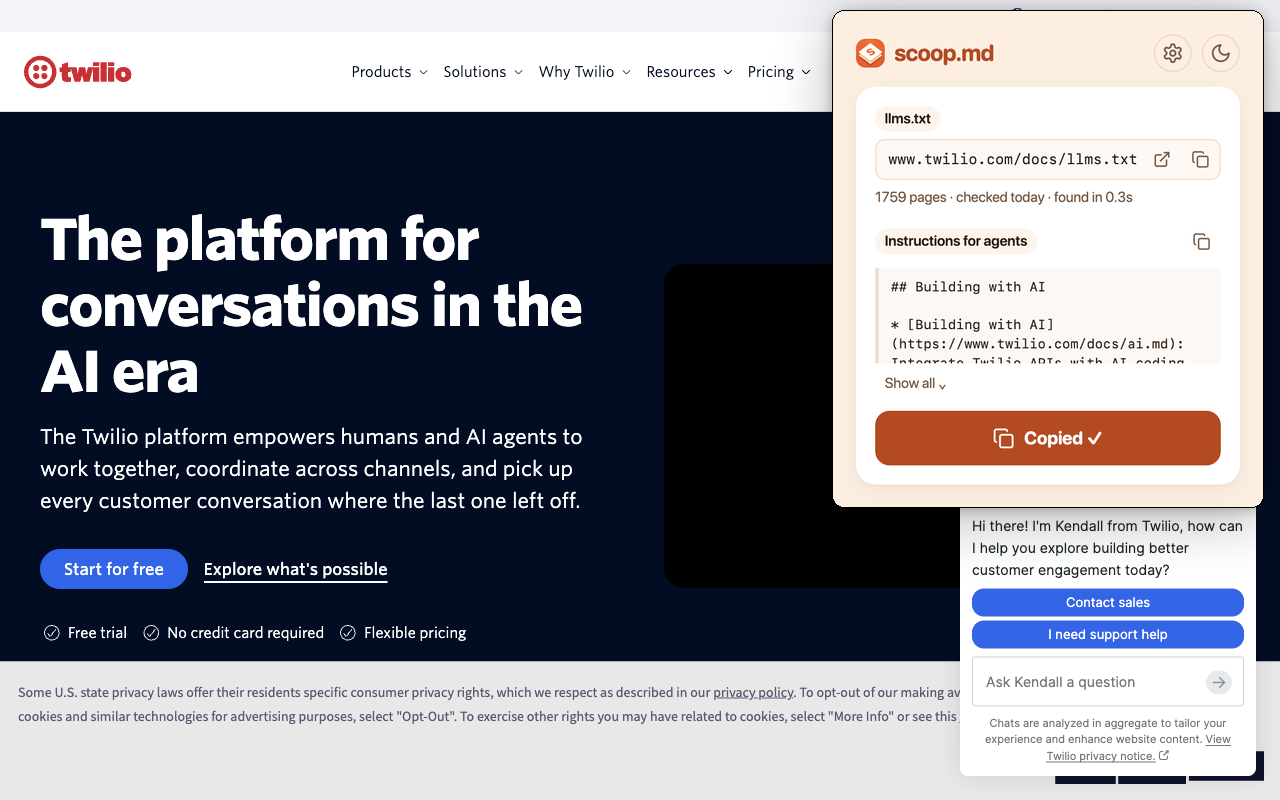
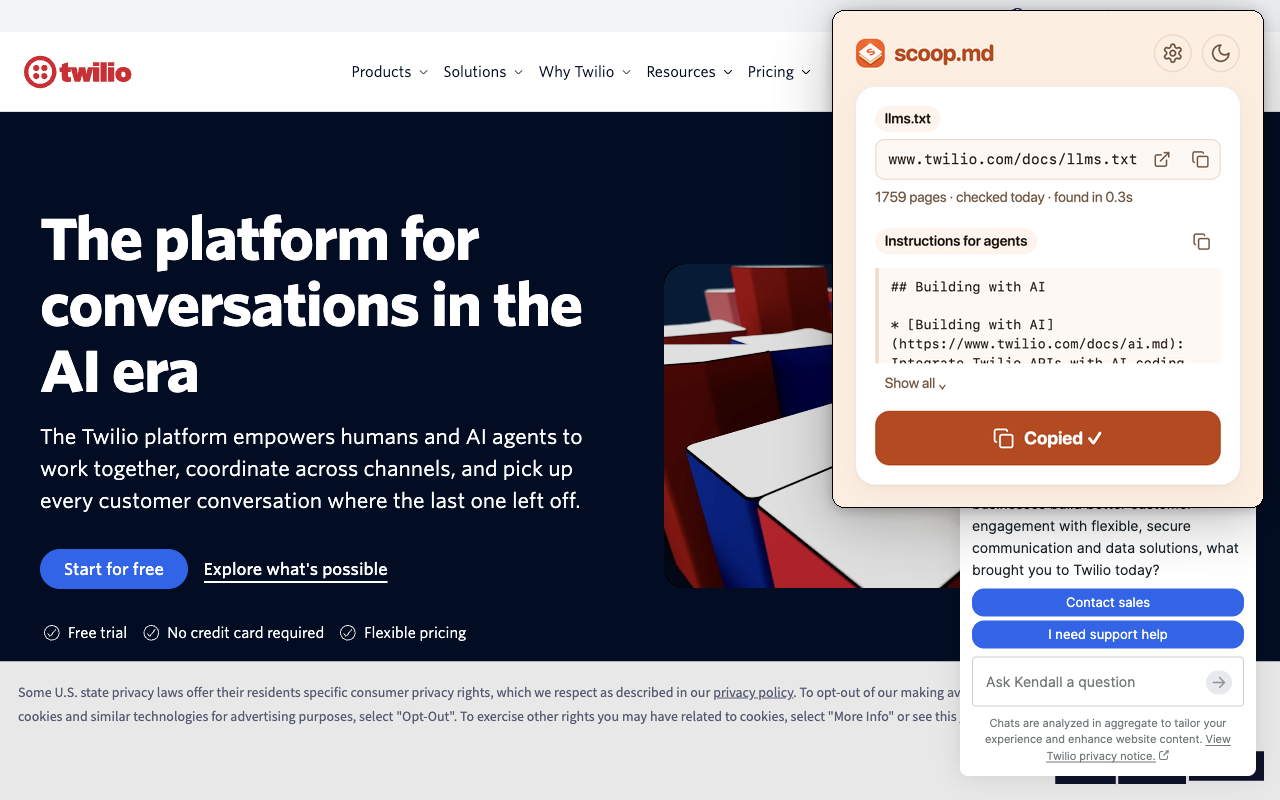
Store screenshots: retaken with the 0.6.0 zip against production (scoop.md URLs, no focus ring)

Changed region(s): [[0.5, 0.3125, 0.9688, 0.75]]

diff --git a/extension/STORE.md b/extension/STORE.md
@@ -77,13 +77,13 @@ Certifications to tick:
 
 ## Store artwork
 
-In `store-assets/` (copies in `dist/store/`), taken in Chrome with the real 0.6.0 extension against the library and composed with the popup at the top right (1280×800, light theme). Sources: scratchpad/ux-evidence/060/store/.
+In `store-assets/` (copies in `dist/store/`), taken in Chrome with the released 0.6.0 zip against production (api.scoop.md) and composed with the popup at the top right (1280×800, light theme). Sources: scratchpad/ux-evidence/060-prod/store/.
 
 | File | Size | Shows |
 |---|---|---|
-| `1-stripe.png` | 1280×800 | stripe.com: the llms.txt field (docs.stripe.com/llms.txt, "513 pages · checked today · found in 0.2s"), Instructions for agents (Stripe's, collapsed with "Show all ⌄") and "Copied ✓"; the toolbar shows "2" |
+| `1-stripe.png` | 1280×800 | docs.stripe.com/webhooks: the llms.txt field (docs.stripe.com/llms.txt, "513 pages · checked today · found in 0.3s"), Instructions for agents (Stripe's, collapsed with "Show all ⌄") and "Copied ✓" |
 | `2-twilio.png` | 1280×800 | twilio.com: www.twilio.com/docs/llms.txt with Twilio's instructions for agents, copied |
-| `3-python.png` | 1280×800 | docs.python.org: an llms.txt prepared by scoop.md ("by scoop.md" badge) with install instructions, copied |
+| `3-python.png` | 1280×800 | docs.python.org: scoop.md/docs.python.org/llms.txt, prepared by scoop.md ("by scoop.md" badge, 322 pages) with install instructions, copied |
 | `4-hono.png` | 1280×800 | hono.dev: an llms.txt only (no instructions): "Copy llms.txt", copied; the toolbar shows "1" |
 | `5-not-developer.png` | 1280×800 | example.com: "This isn't a developer website. scoop.md is for developer docs." and nothing else |
 | `6-badge.png` | 1280×800 | The toolbar badge close-ups: "2" on docs.stripe.com, "1" on hono.dev, nothing on example.com |
